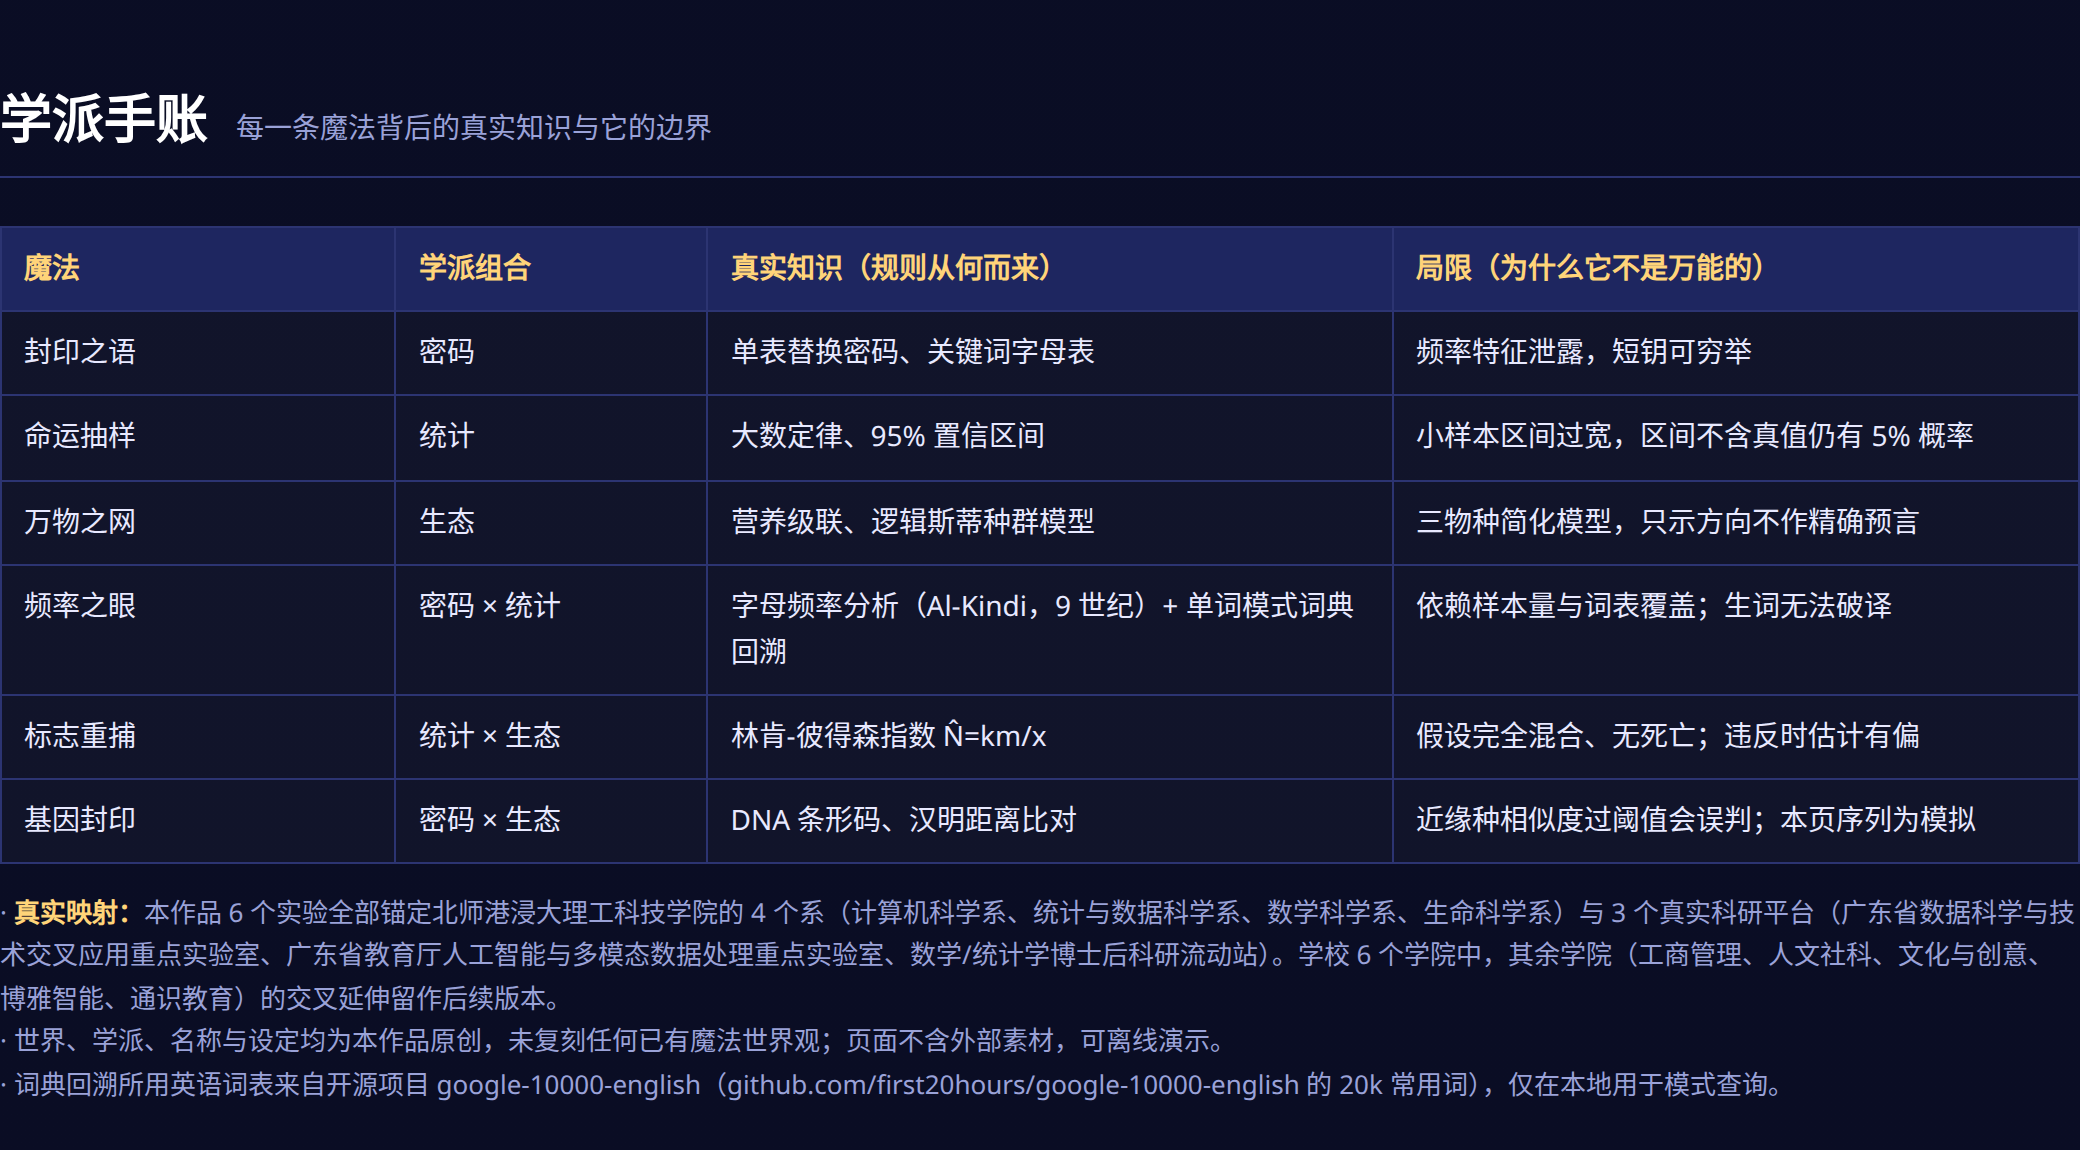
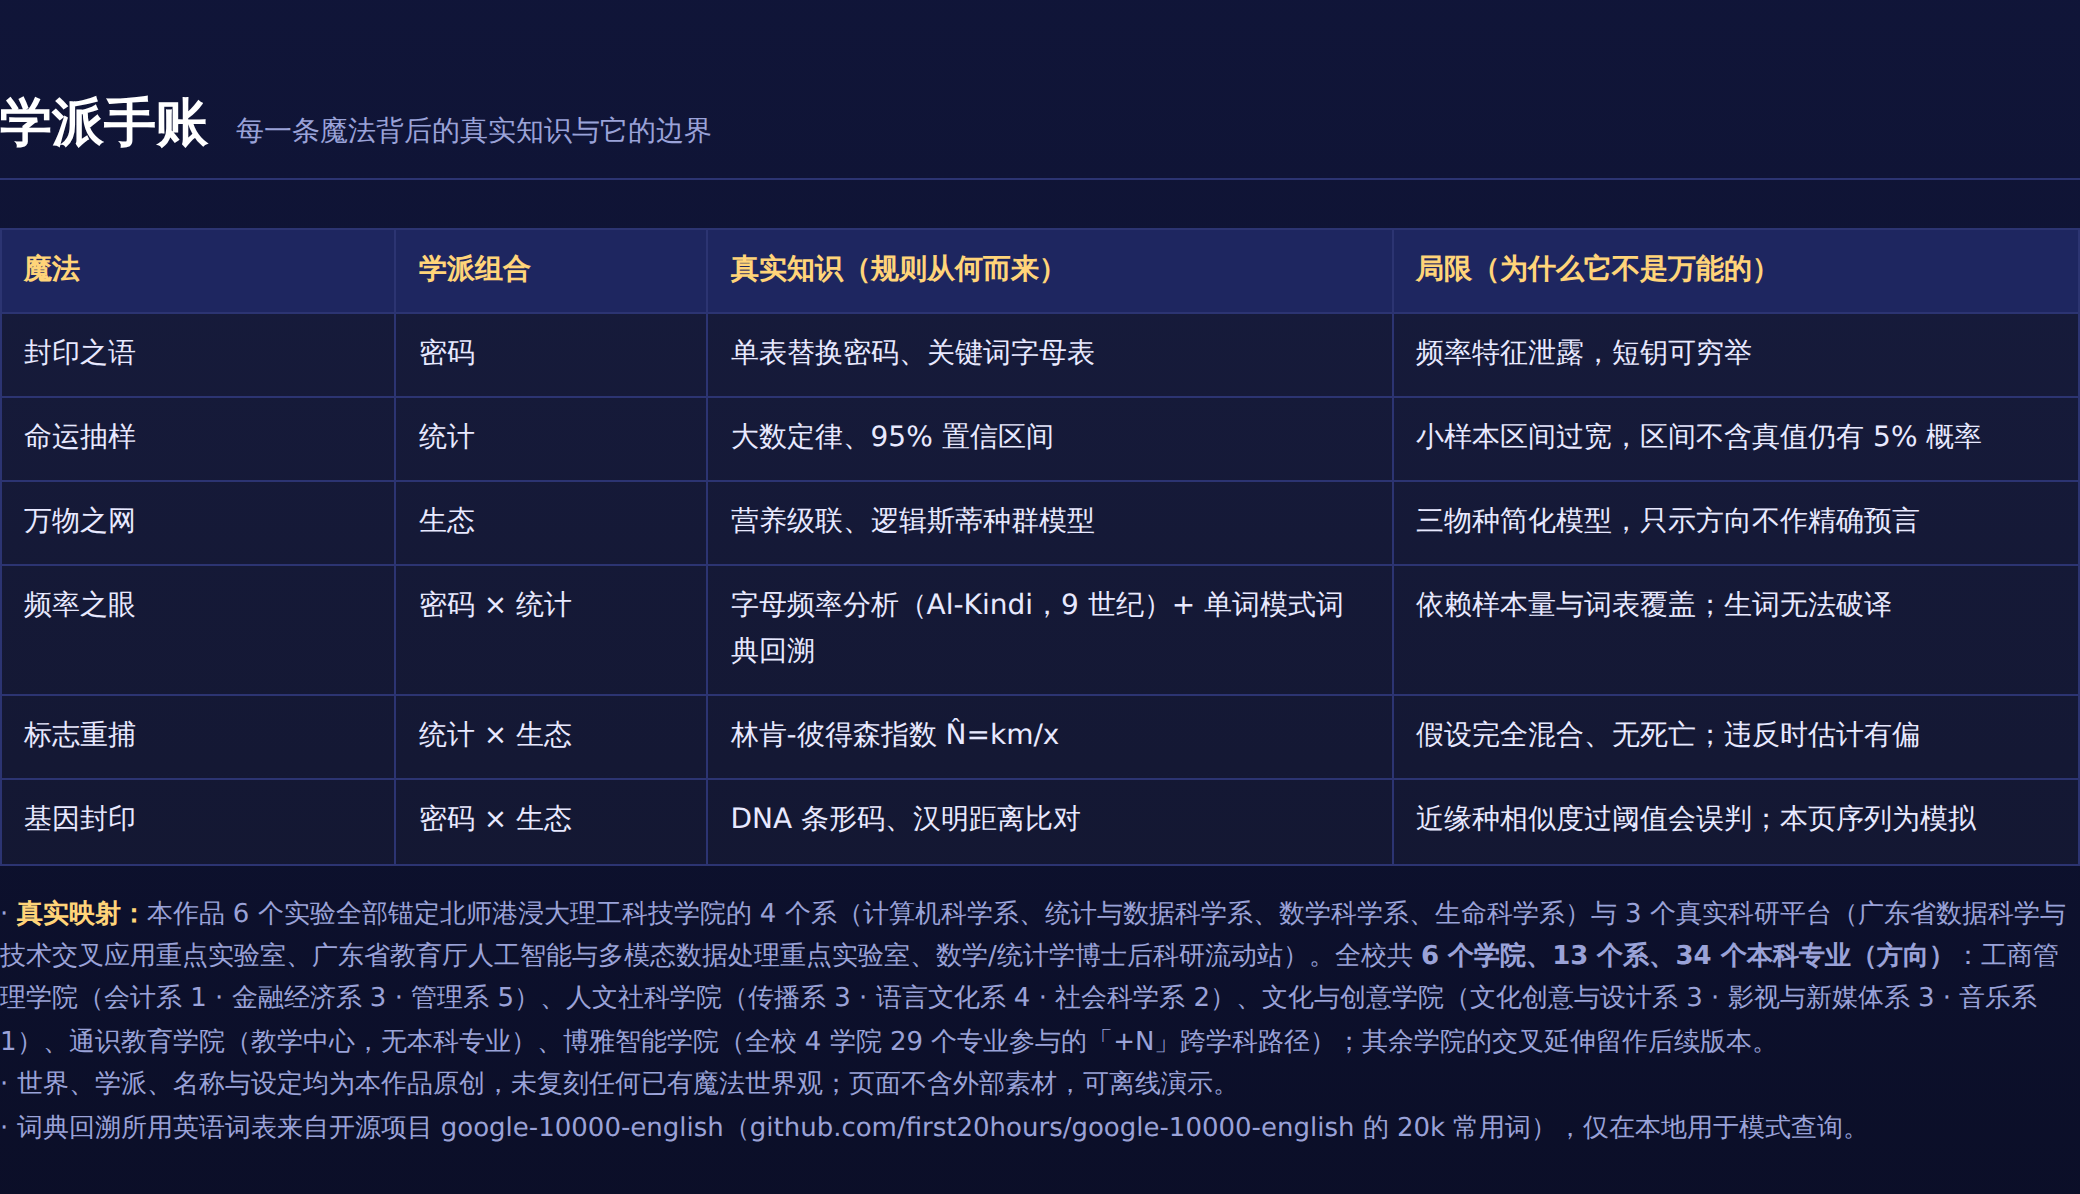
真实信息：逐院核对 6 学院 13 系 34 个本科专业，更新页面真实映射与 README 来源说明，并重拍 codex 截图

Changed region(s): [[0.0, 0.1826, 1.0, 0.9739], [0.0, 0.0609, 0.3438, 0.1522]]

diff --git a/index.html b/index.html
@@ -342,7 +342,7 @@
       <tr><td>标志重捕</td><td>统计 × 生态</td><td>林肯-彼得森指数 N̂=km/x</td><td>假设完全混合、无死亡；违反时估计有偏</td></tr>
       <tr><td>基因封印</td><td>密码 × 生态</td><td>DNA 条形码、汉明距离比对</td><td>近缘种相似度过阈值会误判；本页序列为模拟</td></tr>
     </table>
-    <p class="note" style="margin-top:14px">· <b style="color:#ffd479">真实映射：</b>本作品 6 个实验全部锚定北师港浸大理工科技学院的 4 个系（计算机科学系、统计与数据科学系、数学科学系、生命科学系）与 3 个真实科研平台（广东省数据科学与技术交叉应用重点实验室、广东省教育厅人工智能与多模态数据处理重点实验室、数学/统计学博士后科研流动站）。学校 6 个学院中，其余学院（工商管理、人文社科、文化与创意、博雅智能、通识教育）的交叉延伸留作后续版本。<br>
+    <p class="note" style="margin-top:14px">· <b style="color:#ffd479">真实映射：</b>本作品 6 个实验全部锚定北师港浸大理工科技学院的 4 个系（计算机科学系、统计与数据科学系、数学科学系、生命科学系）与 3 个真实科研平台（广东省数据科学与技术交叉应用重点实验室、广东省教育厅人工智能与多模态数据处理重点实验室、数学/统计学博士后科研流动站）。全校共 <b>6 个学院、13 个系、34 个本科专业（方向）</b>：工商管理学院（会计系 1 · 金融经济系 3 · 管理系 5）、人文社科学院（传播系 3 · 语言文化系 4 · 社会科学系 2）、文化与创意学院（文化创意与设计系 3 · 影视与新媒体系 3 · 音乐系 1）、通识教育学院（教学中心，无本科专业）、博雅智能学院（全校 4 学院 29 个专业参与的「+N」跨学科路径）；其余学院的交叉延伸留作后续版本。<br>
     · 世界、学派、名称与设定均为本作品原创，未复刻任何已有魔法世界观；页面不含外部素材，可离线演示。<br>
     · 词典回溯所用英语词表来自开源项目 google-10000-english（github.com/first20hours/google-10000-english 的 20k 常用词），仅在本地用于模式查询。</p>
   </section>

diff --git a/README.md b/README.md
@@ -43,7 +43,7 @@
 | 标志重捕（统计×生态） | 统计与数据科学系 × 生命科学系 | 数学、统计学两个博士后科研流动站 |
 | 基因封印（密码×生态） | 计算机科学系 × 生命科学系 | 广东省教育厅人工智能与多模态数据处理重点实验室 |
 
-信息来源：北师香港浸会大学官网公开资料（bnbu.edu.cn，院系设置、学科建设、科研平台栏目）。
+信息来源：北师香港浸会大学官网及各学院站点公开资料——bnbu.edu.cn「学院与研究生院」，以及工商管理（fbm.bnbu.edu.cn/yxyzy.htm）、人文社科学院（fhss…/departments_programmes.htm）、理工科技学院（fst…/Department_Programme.htm）、文化与创意学院（scc…/undergraduate_studies.htm）、博雅智能学院（sai…/curriculum/Overview.htm）、通识教育学院（sge…）各学院「院系与专业 / 本科课程」页。全校 **6 学院 · 13 系 · 34 个本科专业（方向）**已逐院核对（9+9+9+7），作品锚定其中理工科技学院 4 系。
 
 ## 4. 与最相近已有产品的差异
 
